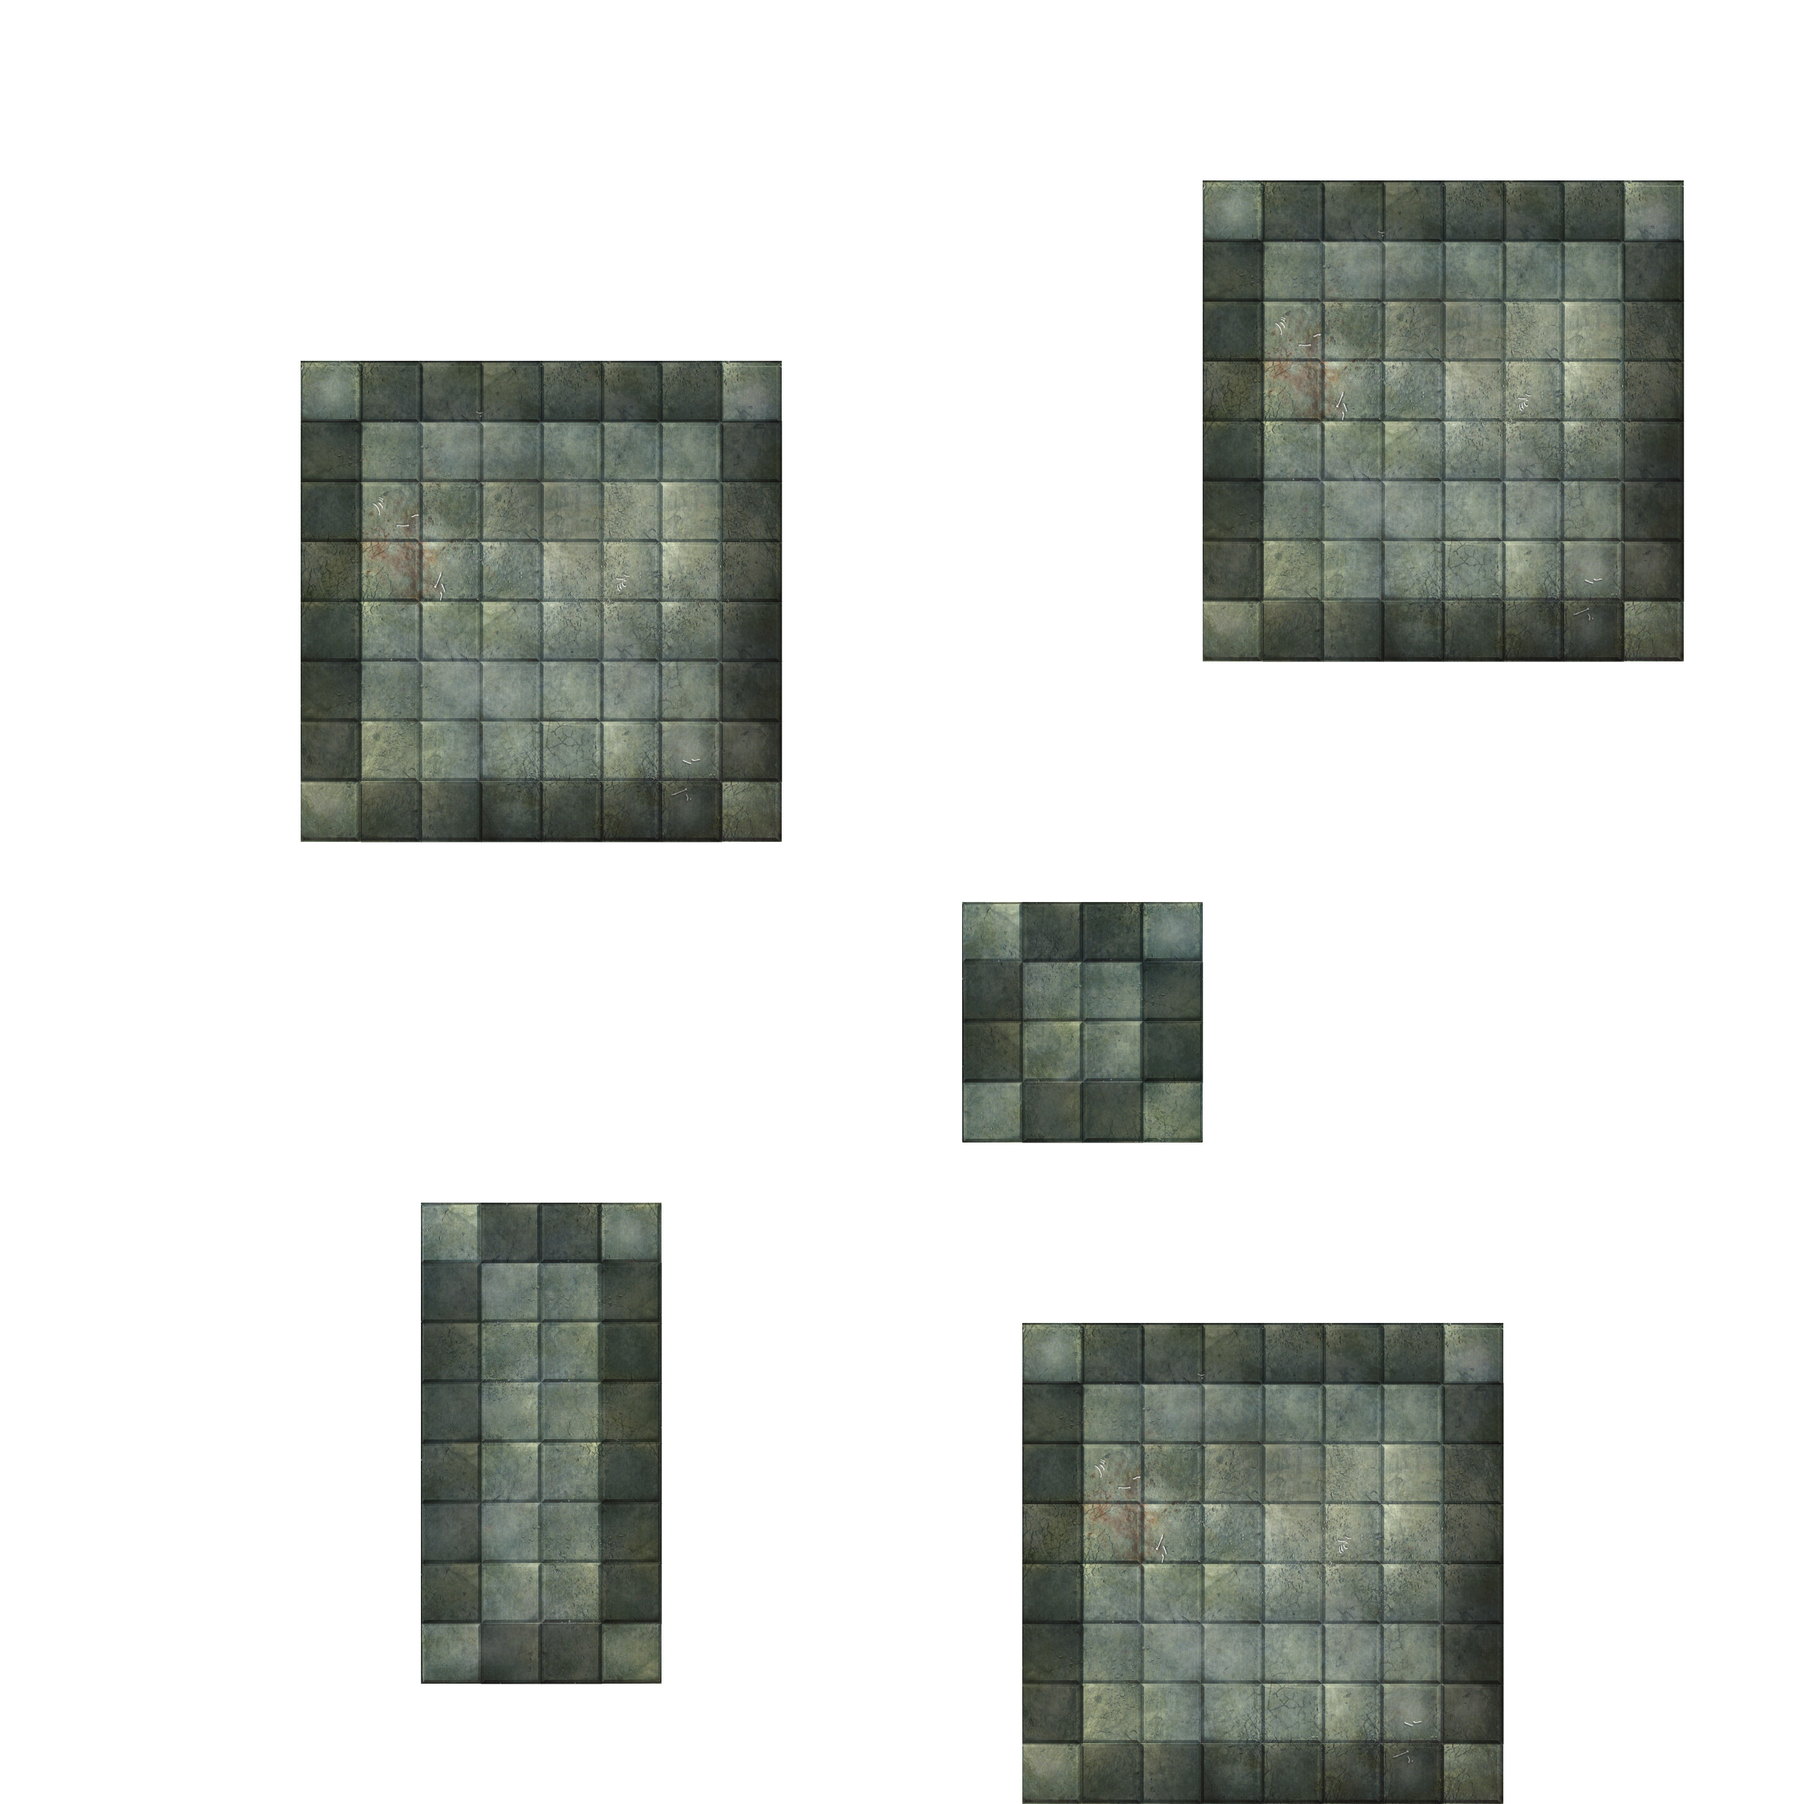
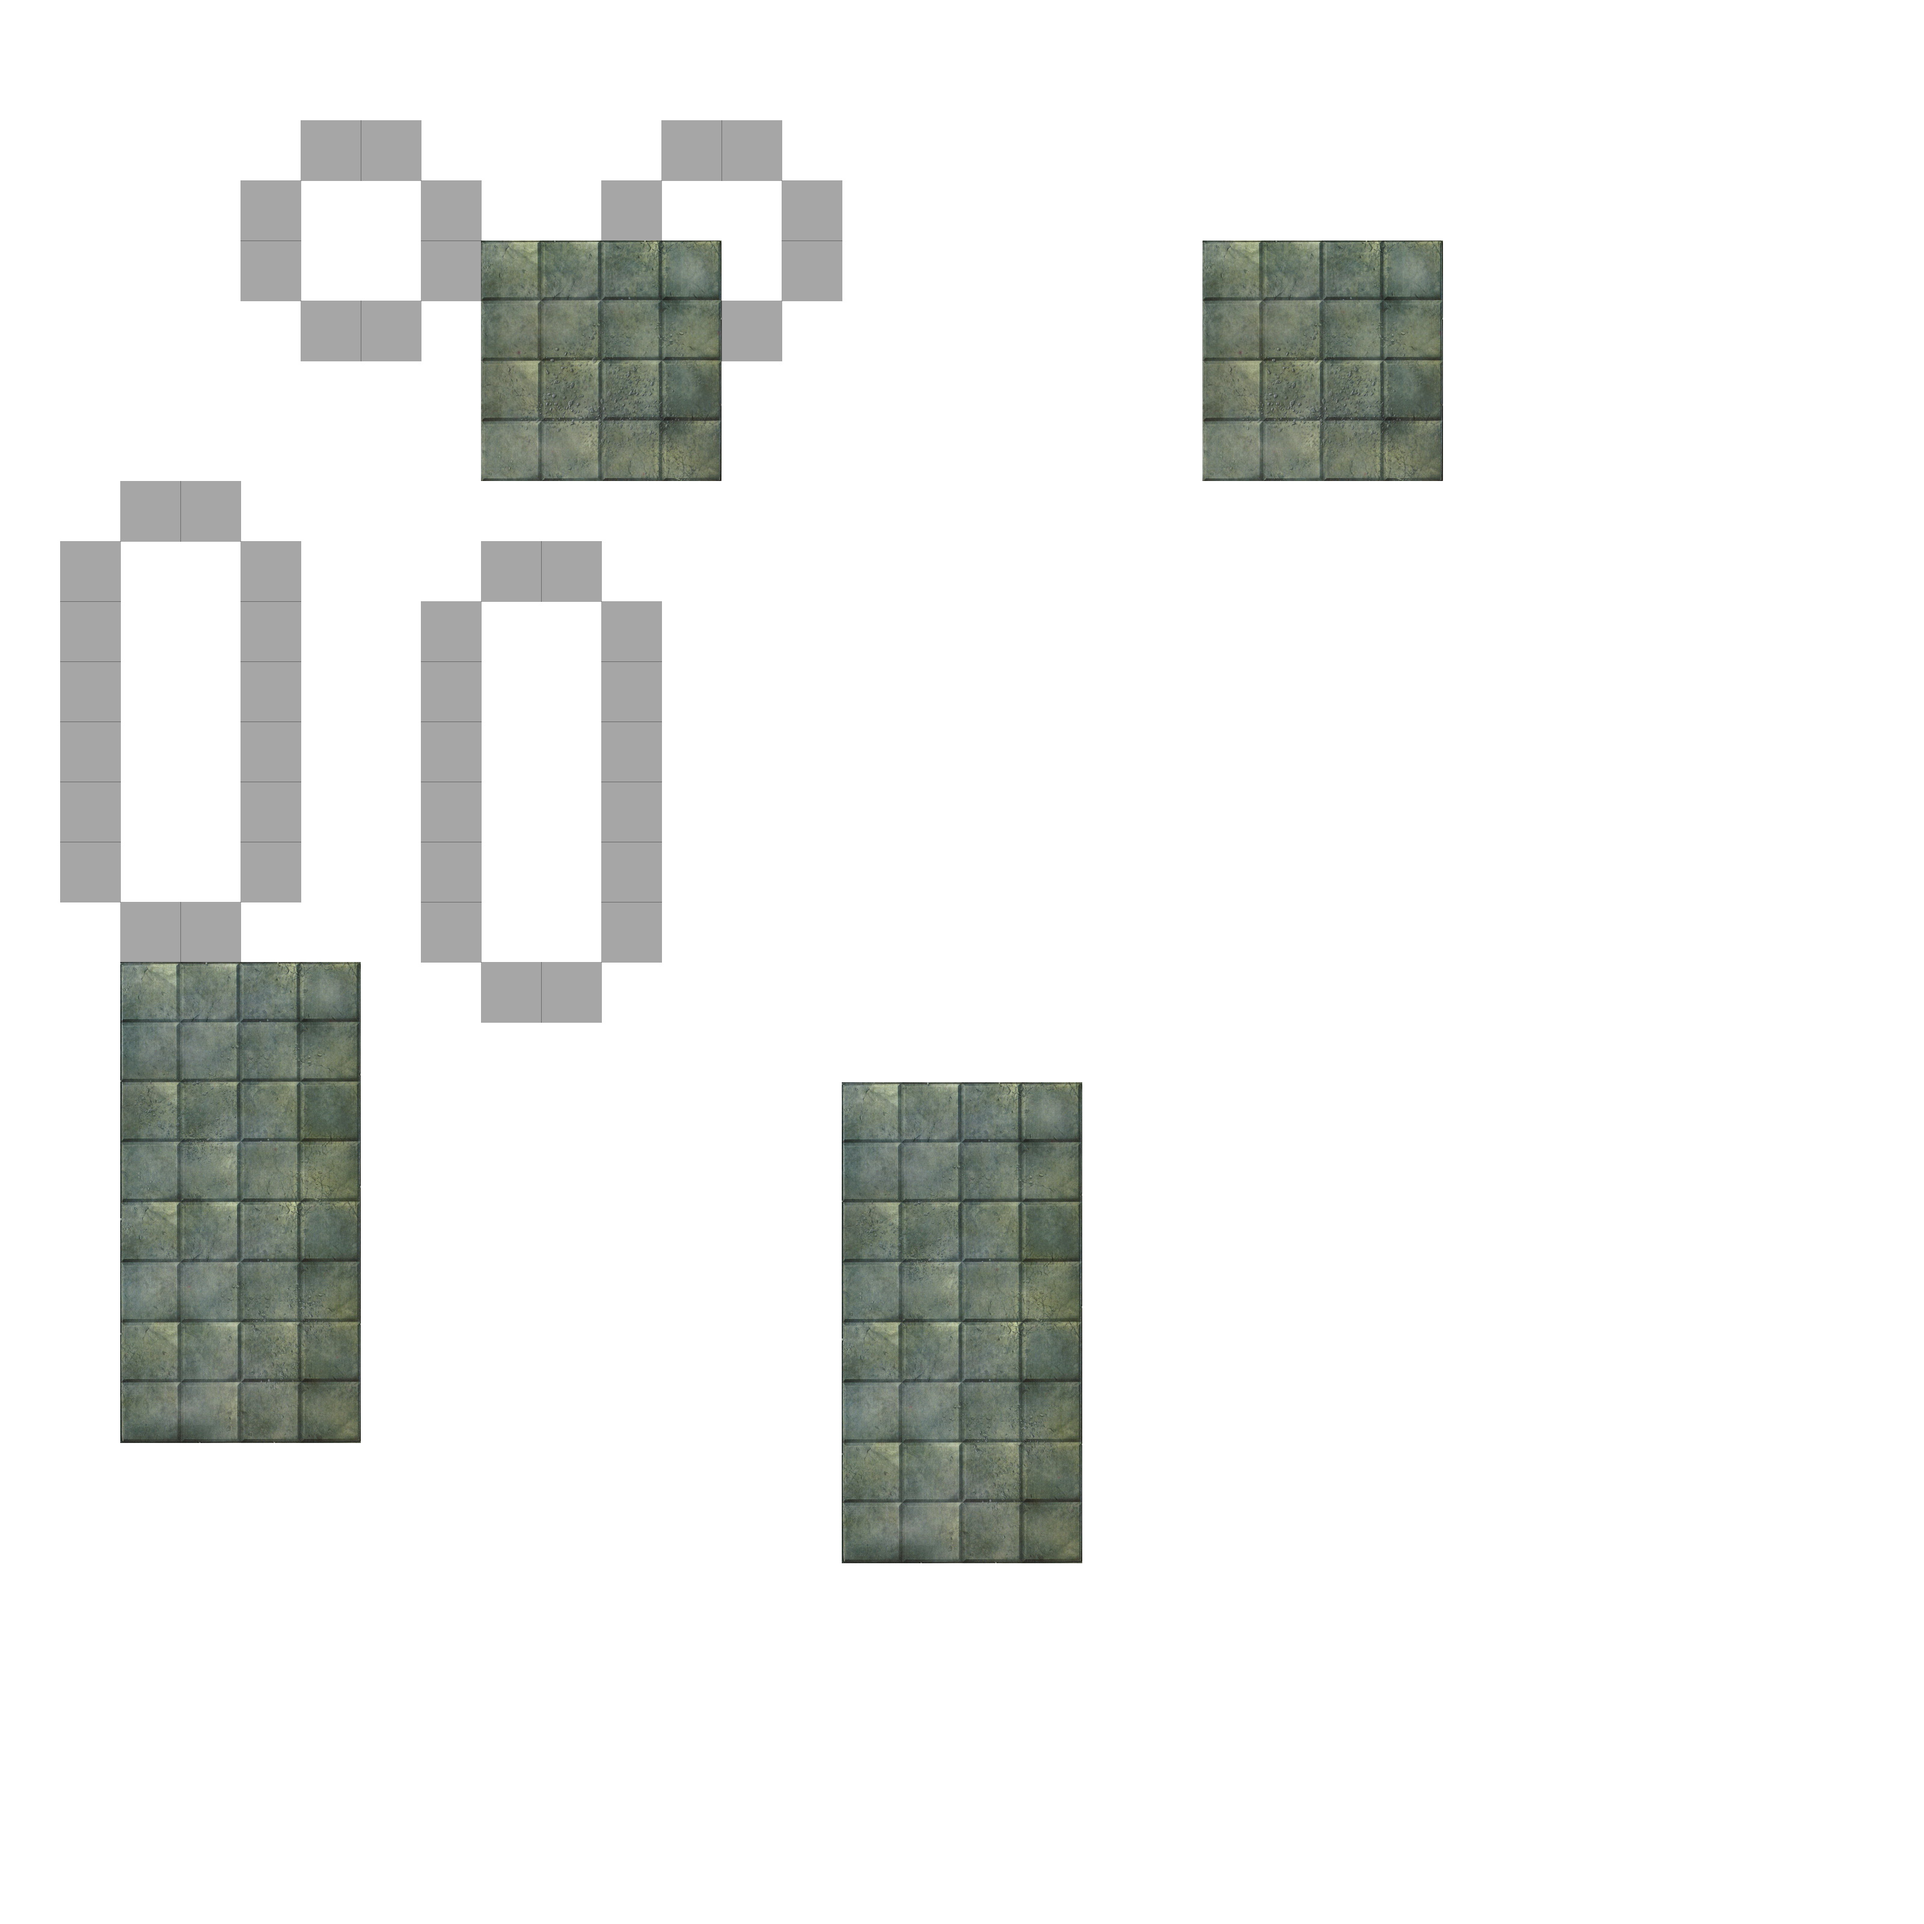
Switching to half size.

diff --git a/gen.rb b/gen.rb
@@ -3,10 +3,10 @@ require_relative 'libs/availables_tiles_pool/rooms'
 require_relative 'libs/availables_tiles_pool/hallways'
 require_relative 'libs/occupied_spaces'
 
-dungeon_width = 30
-dungeon_height = 30
+dungeon_width = 16
+dungeon_height = 16
 os = OccupiedSpaces.new
-dungeon_image = Magick::Image.new( dungeon_width * AvailableTile::Base::TILE_SIZE, dungeon_height * AvailableTile::Base::TILE_SIZE )
+dungeon_image = Magick::Image.new( dungeon_width * 2 * AvailableTile::Base::TILE_SIZE, dungeon_height * 2 * AvailableTile::Base::TILE_SIZE )
 rooms = AvailablesTilesPool::Rooms.new( os )
 hallways = AvailablesTilesPool::Hallways.new( os )
 
@@ -26,12 +26,12 @@ infinite_loop_protection = 1000
 
 while nb_rooms > 0 and infinite_loop_protection > 0
 
-  top = rand( 1 .. 22 )
-  left = rand( 1 .. 22 )
+  top = rand( 1 .. dungeon_height - 5 )
+  left = rand( 1 .. dungeon_width - 5 )
 
   room = rooms.sample
 
-  if os.free_space?( room, top, left, 3 )
+  if os.free_space?( room, top, left, 2 )
     placed_rooms << room.place( top, left )
     nb_rooms -= 1
   end

diff --git a/libs/tile_on_map/base.rb b/libs/tile_on_map/base.rb
@@ -28,8 +28,8 @@ module TileOnMap
       @hallways&.each{ |h| dungeon_image = h.draw( dungeon_image ) }
 
       dungeon_image = dungeon_image.composite( @tile_image,
-         @left * AvailableTile::Base::TILE_SIZE,
-         @top * AvailableTile::Base::TILE_SIZE, OverCompositeOp )
+         @left * 2 * AvailableTile::Base::TILE_SIZE,
+         @top * 2 * AvailableTile::Base::TILE_SIZE, OverCompositeOp )
 
       @borders&.draw( dungeon_image )
 
